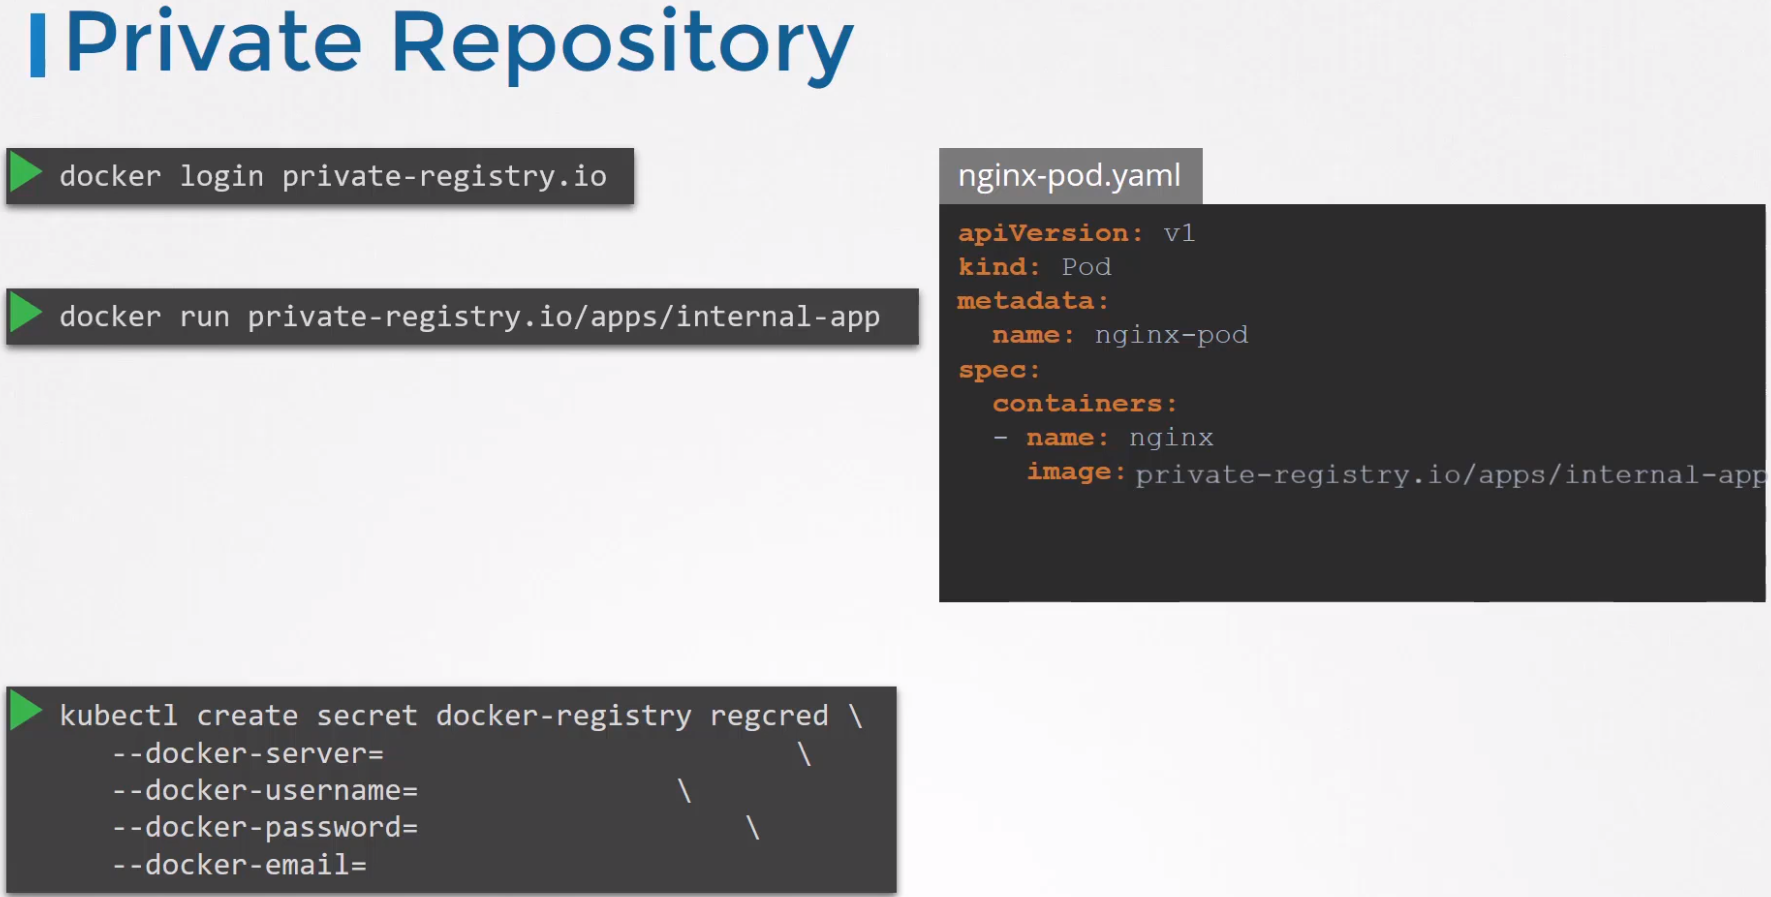
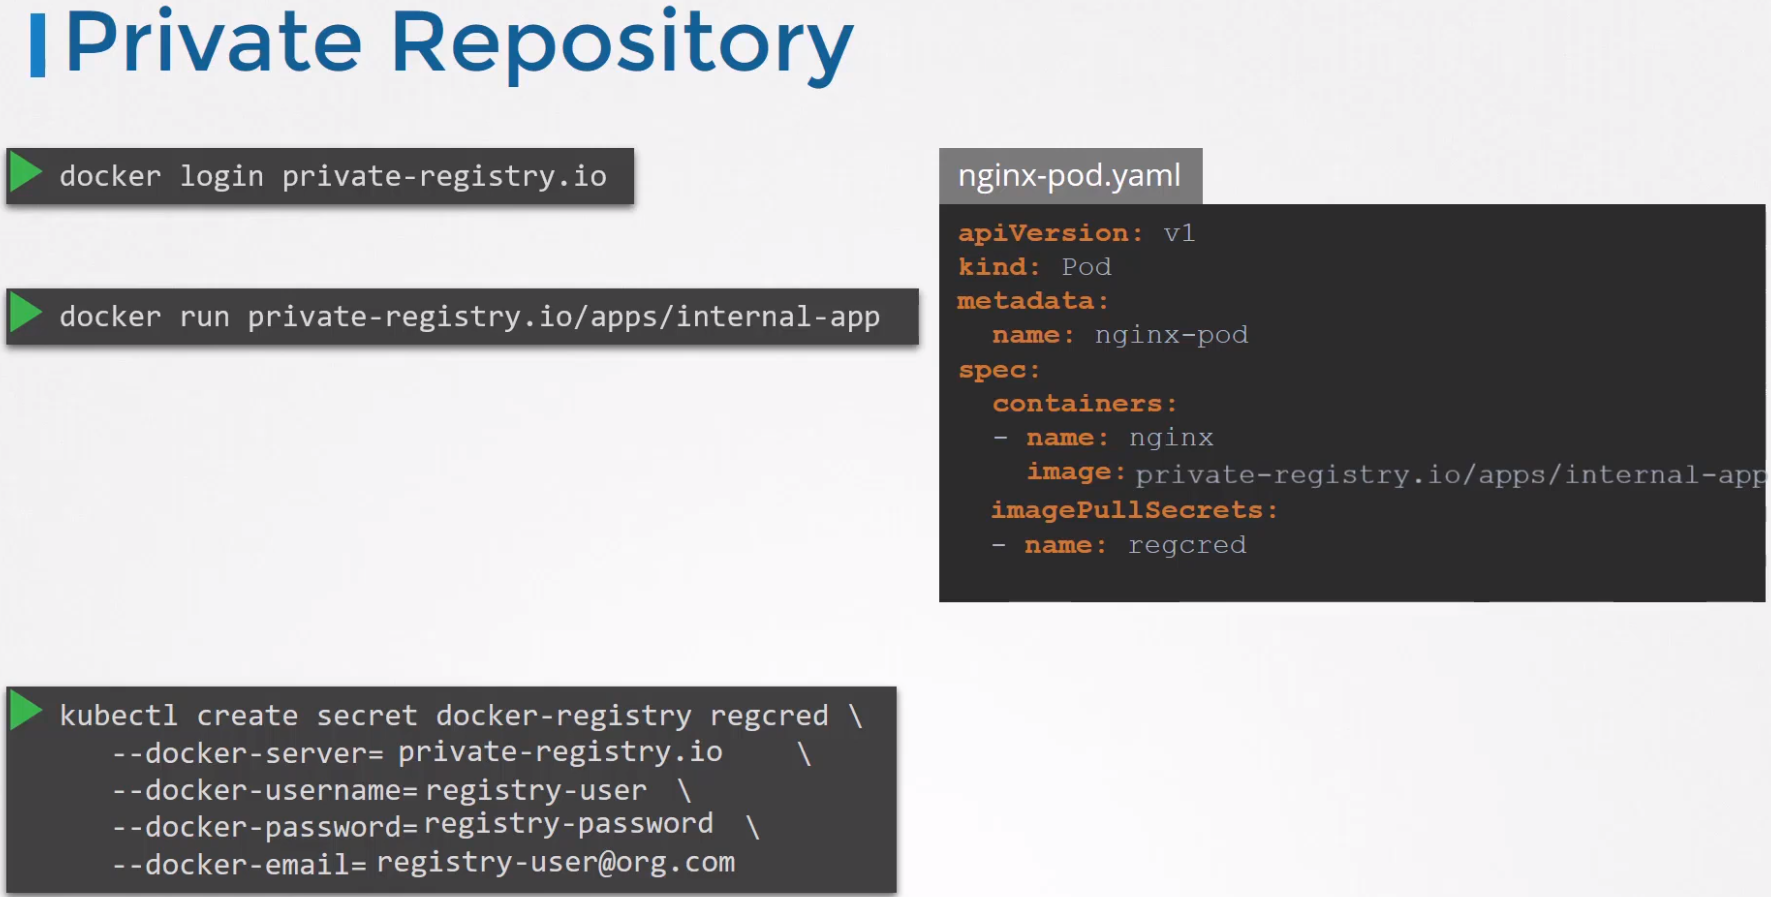
Image security updates.

Changed region(s): [[0.2174, 0.8116, 0.4348, 0.9989], [0.559, 0.5619, 0.7143, 0.6243]]

diff --git a/kubernetes/04.security/README.md b/kubernetes/04.security/README.md
@@ -77,18 +77,21 @@
     - [One Way TLS Vs Two Way TLS](#one-way-tls-vs-two-way-tls)
     - [Pod To Pod mTLS](#pod-to-pod-mtls)
 - [5) Supply Chain Security](#5-supply-chain-security)
-  - [Image Security](#image-security)
+  - [Image Terminology](#image-terminology)
   - [Image Security Best Practices](#image-security-best-practices)
-    - [Image Cohesion & Modularity](#image-cohesion--modularity)
+    - [Cohesion & Modularity](#cohesion--modularity)
     - [State Persistance](#state-persistance)
-    - [Choosing A Base Image](#choosing-a-base-image)
-    - [Use Slim/Minimal Images](#use-slimminimal-images)
+    - [Official Base Images](#official-base-images)
+    - [Slim/Minimal Vs Fat Images](#slimminimal-vs-fat-images)
     - [Dev Vs Prod Images](#dev-vs-prod-images)
     - [Distroless Images](#distroless-images)
-    - [Official Registries](#official-registries)
-  - [Allow Listing Image Registries](#allow-listing-image-registries)
-  - [Static Analysis](#static-analysis)
-  - [Dynamic Anaylsis](#dynamic-anaylsis)
+    - [Image Registries](#image-registries)
+      - [Public Official Registries](#public-official-registries)
+      - [Private Internal Registries](#private-internal-registries)
+      - [Allowlisting Image Registries](#allowlisting-image-registries)
+  - [Image Scanning](#image-scanning)
+    - [Static Analysis](#static-analysis)
+    - [Dynamic Anaylsis](#dynamic-anaylsis)
 - [6) Monitoring, Logging, & Runtime Security](#6-monitoring-logging--runtime-security)
 
 # 1) Understanding The k8s Attack Surface
@@ -1366,7 +1369,7 @@ In k8s Istio works by injecting a sidecar container into each Pod. Everytime the
 
 # 5) Supply Chain Security
 
-## Image Security
+## Image Terminology
 
 A **parent image** is the image you use to build your application. A **base image** is an image that has no parent image and is built from scratch.
 
@@ -1378,7 +1381,7 @@ It is a good idea to minimise the base image attack surface as much as possible 
 
 ## Image Security Best Practices
 
-### Image Cohesion & Modularity
+### Cohesion & Modularity
 
 Images should be highly cohesive and modular, meaning that they only have 1 application installed into them and be used as modules connecting to any other images or applications.
 
@@ -1388,11 +1391,11 @@ Images should be highly cohesive and modular, meaning that they only have 1 appl
 
 An applications state should never be stored in the container because containers are ephemeral.  Always store application state in an external volume or caching application (e.g. Redis).
 
-### Choosing A Base Image
+### Official Base Images
 
-How do you choose a base image? Look at your technical requirements to answer that question. Want to run a webserver? Then choose httpd or nginx. Once the base image has been chosen, you must make sure that you are using the latest official image for that application.
+How do you choose a base image? Look at your technical requirements to answer that question. For example, want to run a webserver? Then choose httpd or nginx or a webserver base image. Once the base image has been chosen, you must make sure that you are using the latest official image for that application.
 
-### Use Slim/Minimal Images
+### Slim/Minimal Vs Fat Images
 
 Consider using the slim/minimal versions of images as this makes pulling them faster, they are more efficient when running, and also contain less vulnerabilities as their attack surface is smaller. Only install what you need and remove anything that you don't need, e.g. uninstall package managers.
 
@@ -1406,23 +1409,118 @@ Have separate images that run in the development environment and the production 
 
 Google provides some images that only contain the application and libraries, they have no package managers, shells, text editors, etc.
 
-### Official Registries
+### Image Registries
+
+#### Public Official Registries
 
 Only use official registries to download offical base images. Remember that the image name inside a Pod definition file gets expanded following the Docker conventions. So if you don't supply a username for official images the `library` username is injected. And if you don't supply a registry address the `docker.io` website is injected.
 
 ![images/images-4.png](images/images-4.png)
 
-There are many official registries, e.g. `gcr.io` for Google's container registry. You will also need to login to access private registries. In k8s can access private registries with a Docker Secret object with `kubectl create secret docker-registry $NAME $OPTIONS`
+There are many official registries, e.g. `gcr.io` for Google's container registry.
+
+#### Private Internal Registries
+
+You will also need to login to access private registries. In k8s can access private registries with a Docker Secret object with `kubectl create secret docker-registry $NAME $OPTIONS` and inject that into the Pod via `/spec/imagePullSecrets/[i]/name:$NAME`
 
 ![images/images-5.png](images/images-5.png)
 
 ![images/images-6.png](images/images-6.png)
 
-## Allow Listing Image Registries
+#### Allowlisting Image Registries
 
-## Static Analysis
+Without restrictions in place, anyone who can create a Pod can create one using any image they have access to and introduce security vulnerabilities. You can block this by using a variety of AdmissionController options:
 
-## Dynamic Anaylsis
+
+Create your own validating AdmissionController webhook.
+
+![images/images-7.png](images/images-7.png)
+
+Use a third party tool like Open Policy Agent as an AdmissionController.
+
+![images/images-8.png](images/images-8.png)
+
+Configure an existing AdmissionController called [ImagePolicyWebhook](https://kubernetes.io/docs/reference/access-authn-authz/admission-controllers/#imagepolicywebhook).
+
+![images/images-9.png](images/images-9.png)
+
+The **ImagePolicyWebhook** Admission Controller allows a backend webhook to make admission decisions.
+
+**Note:** This must be enabled like all other [Admission Controller](./README.md#admission-contollers) plugins. The `ImagePolicyWebhook` Admission Controlle is passed into `kube-apiserver` through the `--admission-control-config-file` option.
+
+![images/images-11.png](images/images-11.png)
+
+The `ImagePolicyWebhook` Admission Controller is configured by the `AdmissionConfiguration` Object. The configuration can be supplied in the YAML definition file or referrenced from an external YAML or JSON file.
+
+This is an example of the `ImagePolicyWebhook` configuration external file referenced in the `AdmissionConfiguration` YAML definition file.
+
+External confiugration file:
+
+```yaml
+# ImagePolicyWebhook configuration in external file
+imagePolicy:
+  kubeConfigFile: /path/to/kubeconfig/for/backend
+  # time in s to cache approval
+  allowTTL: 50
+  # time in s to cache denial
+  denyTTL: 50
+  # time in ms to wait between retries
+  retryBackoff: 500
+  # determines behavior if the webhook backend fails
+  defaultAllow: true
+```
+
+YAML definition file:
+
+```yaml
+# k8s AdmissionConfiguration YAML definition
+apiVersion: apiserver.config.k8s.io/v1
+kind: AdmissionConfiguration
+plugins:
+- name: ImagePolicyWebhook
+  path: imagepolicyconfig.yaml
+...
+```
+
+This is an example of the `ImagePolicyWebhook` configuration within the `AdmissionConfiguration` YAML definition file.
+
+```yaml
+apiVersion: apiserver.config.k8s.io/v1
+kind: AdmissionConfiguration
+plugins:
+- name: ImagePolicyWebhook
+  configuration:
+    imagePolicy:
+      kubeConfigFile: /path/to/kubeconfig/for/backend
+      allowTTL: 50
+      denyTTL: 50
+      retryBackoff: 500
+      defaultAllow: true
+```
+
+The `ImagePolicyWebhook` config file must reference a KUBECONFIG formatted file which sets up the connection to the backend. It is required that the backend communicate over TLS.
+
+```yaml
+# clusters refers to the remote service.
+clusters:
+- name: name-of-remote-imagepolicy-service
+  cluster:
+    certificate-authority: /path/to/ca.pem    # CA for verifying the remote service.
+    server: https://images.example.com/policy # URL of remote service to query. Must use 'https'.
+
+# users refers to the API server's webhook configuration.
+users:
+- name: name-of-api-server
+  user:
+    client-certificate: /path/to/cert.pem # cert for the webhook admission controller to use
+    client-key: /path/to/key.pem          # key matching the cert
+```
+
+## Image Scanning
+
+### Static Analysis
+
+### Dynamic Anaylsis
 
 
 
